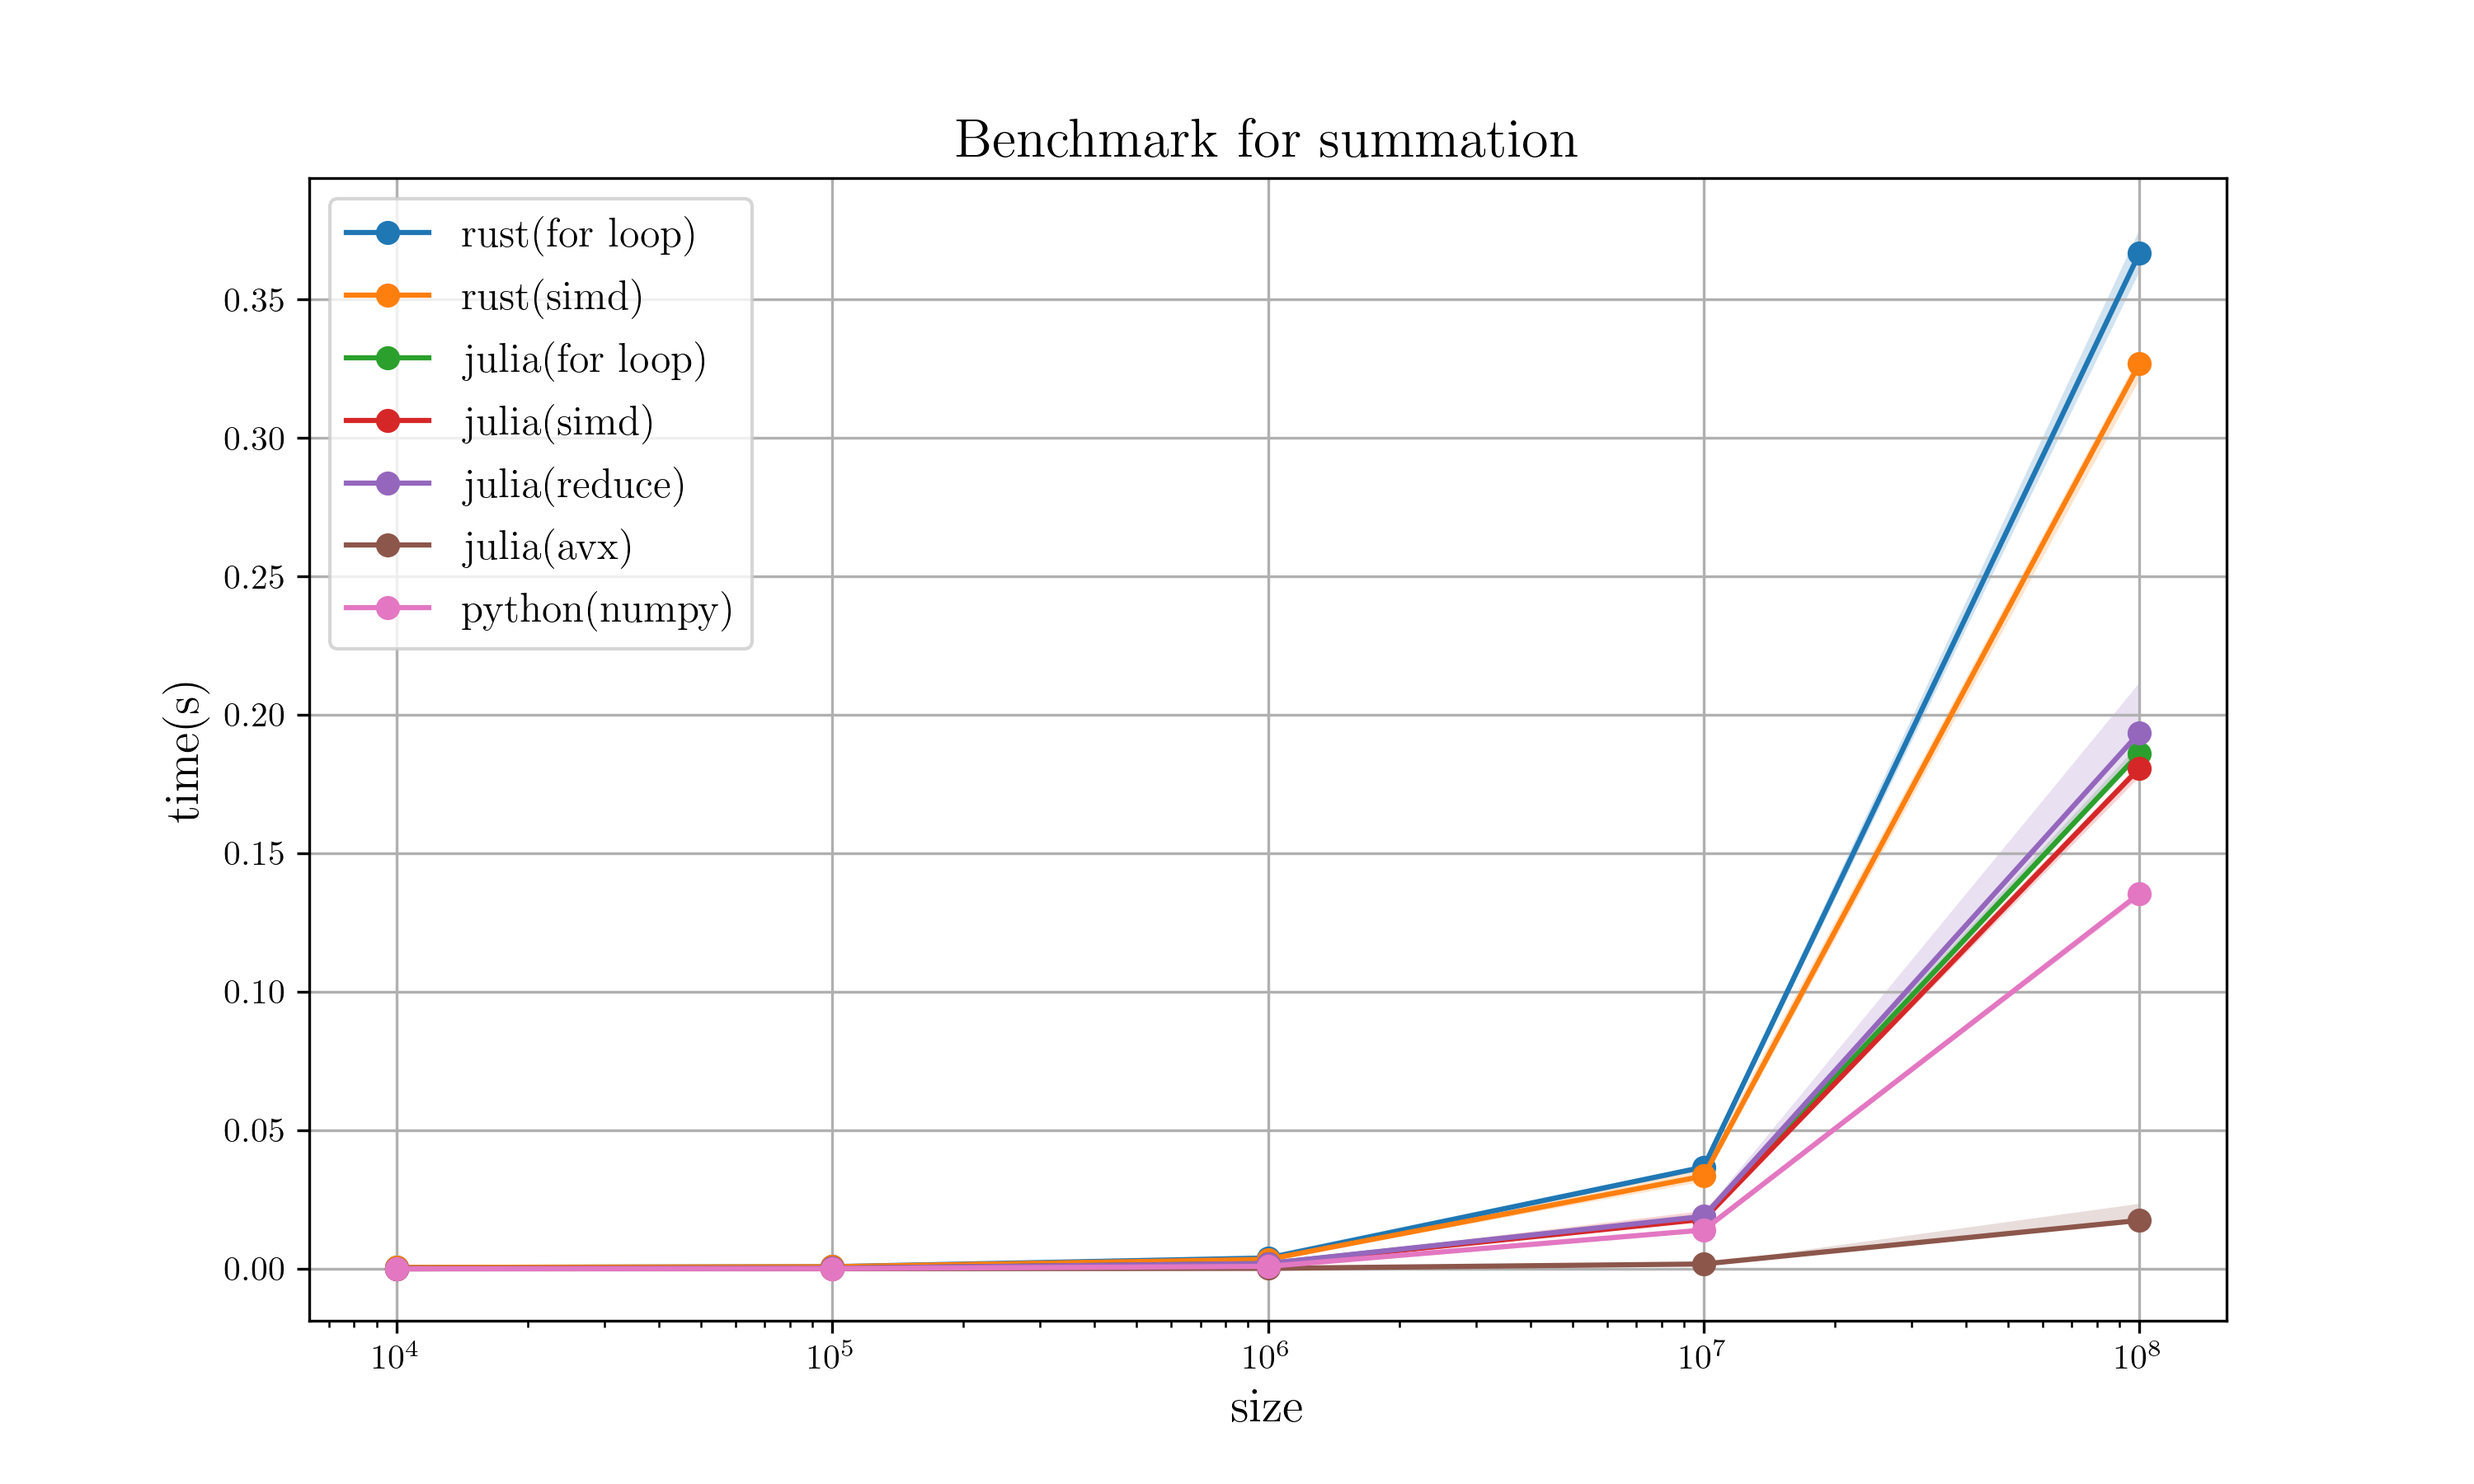
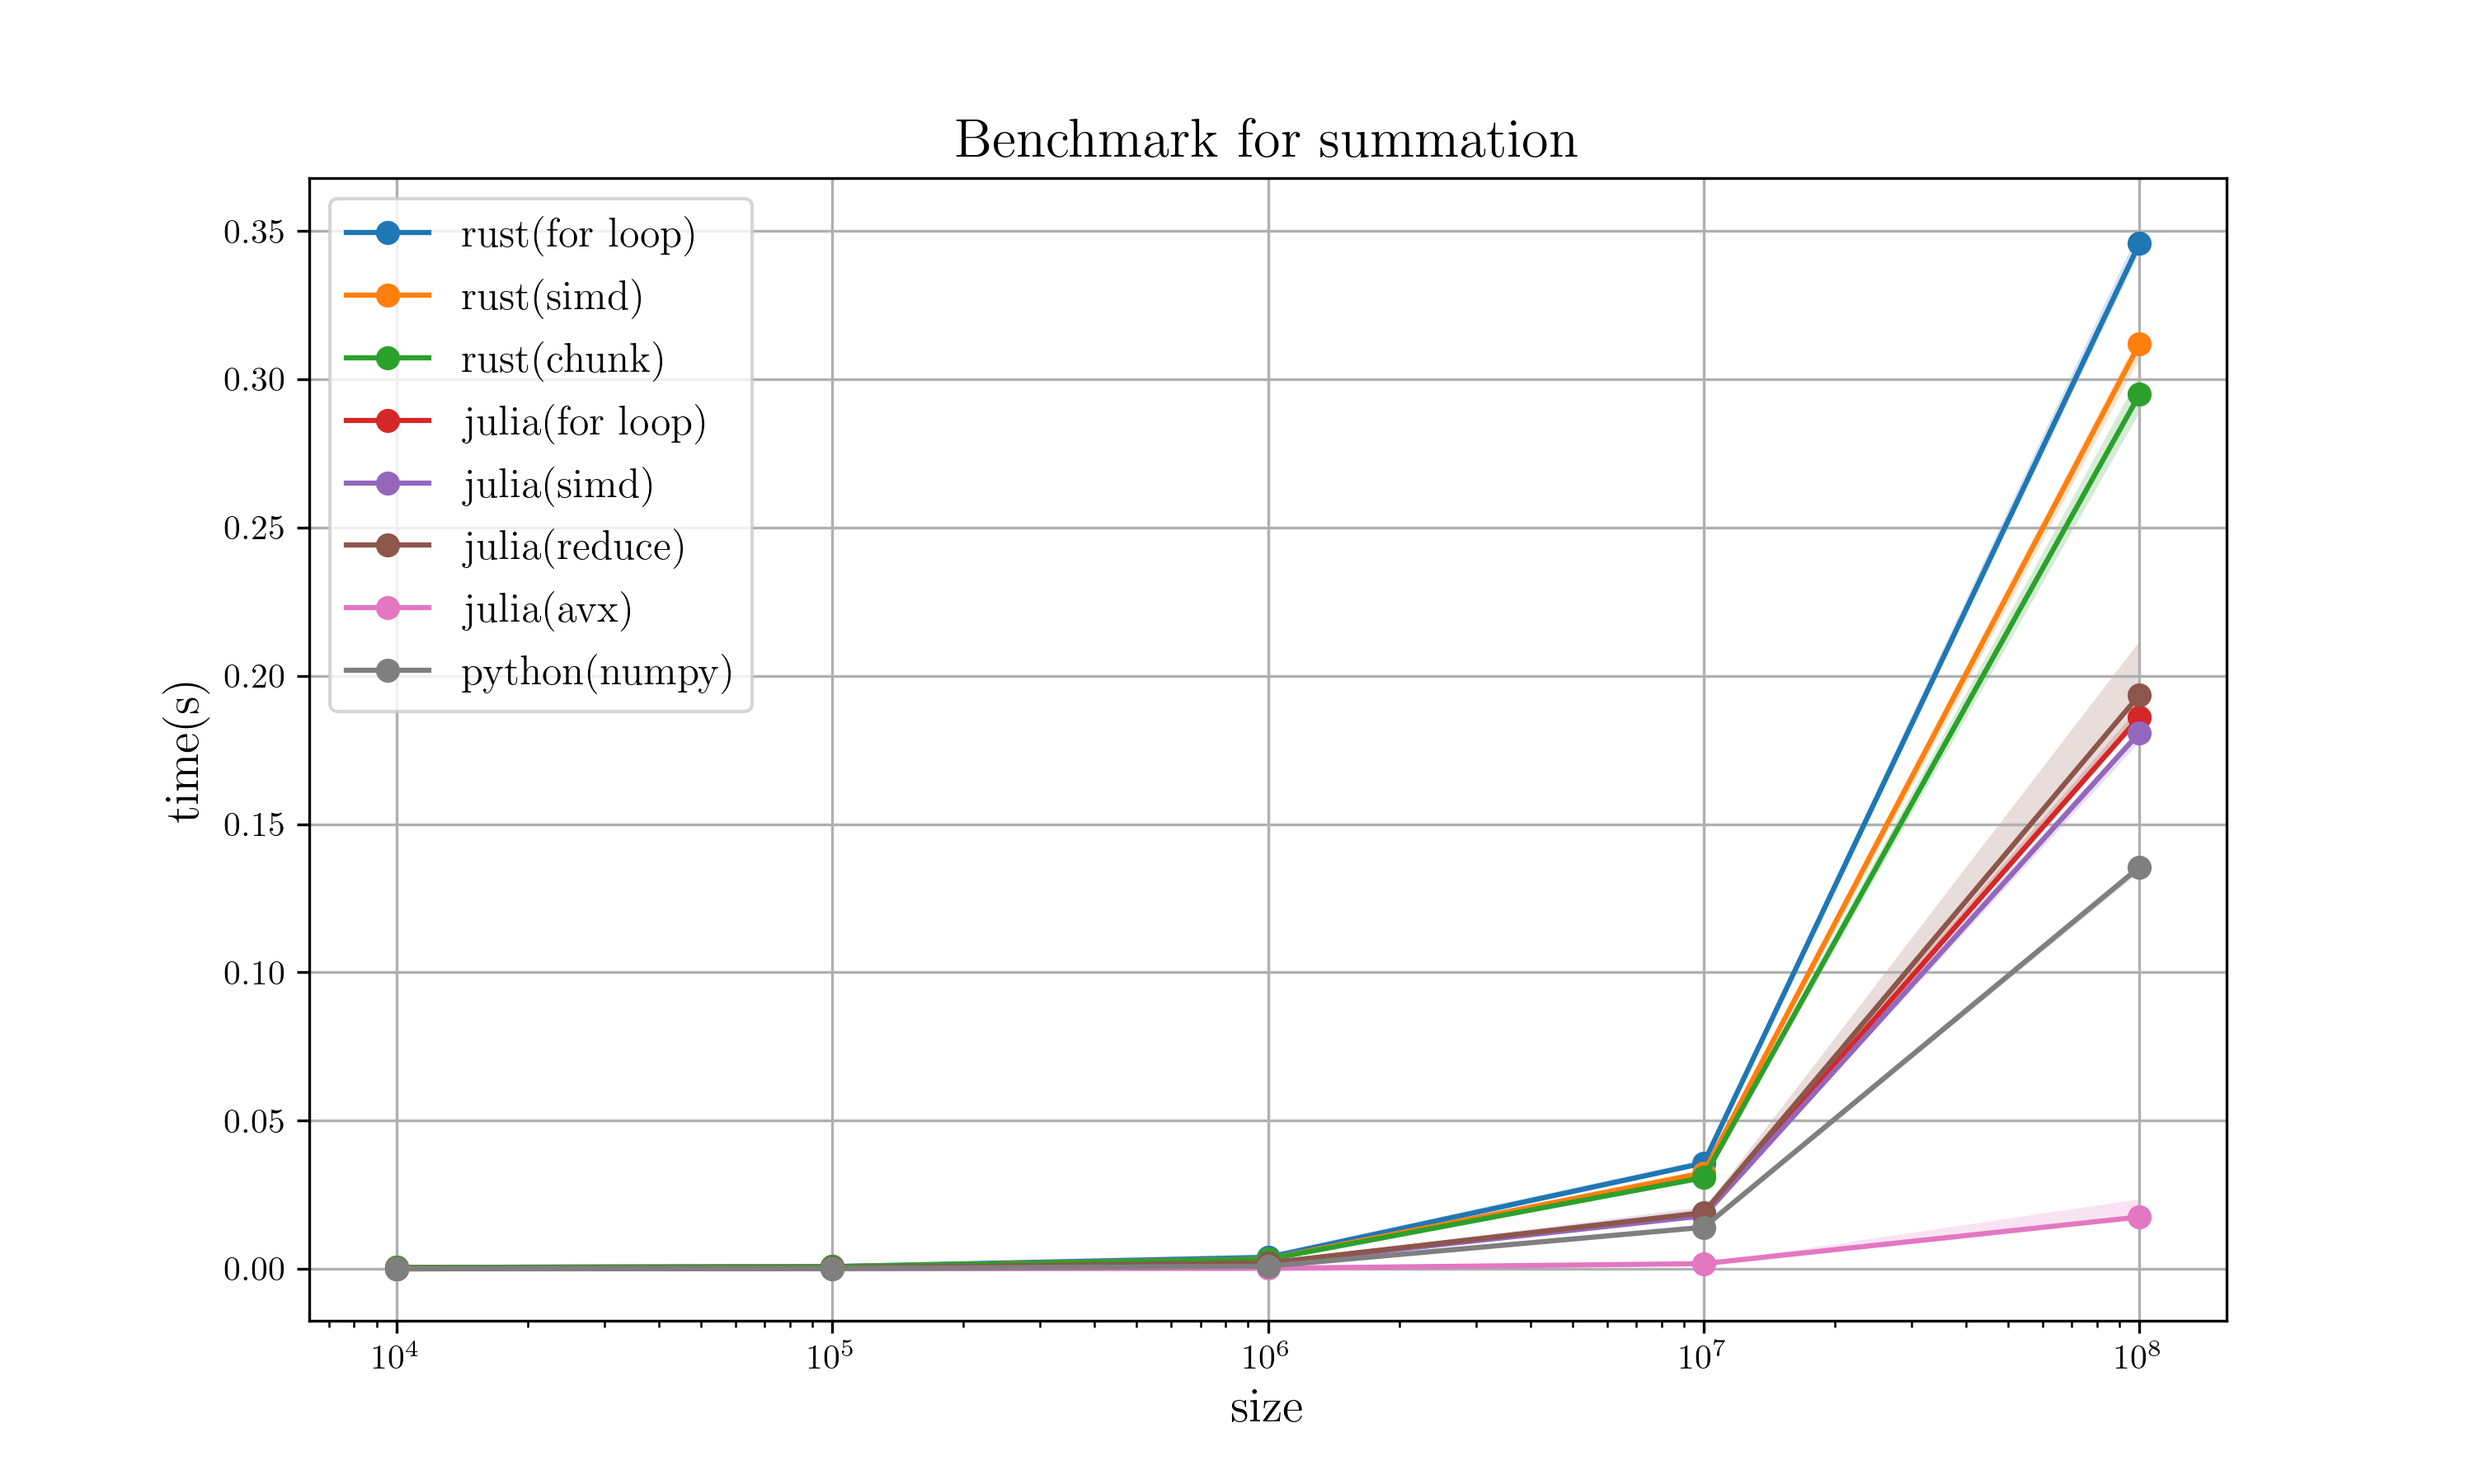
RUst chunk

diff --git a/Basic/sum/plot.py b/Basic/sum/plot.py
@@ -12,6 +12,7 @@ dp = pd.read_csv("bench_python.csv")
 # Filtering
 rust_for = df[df["command"].str.contains("rust_for")]
 rust_simd = df[df["command"].str.contains("rust_simd")]
+rust_chunk = df[df["command"].str.contains("rust_chunk")]
 #eigen3 = df[df["command"].str.contains("default")]
 #eigen3_blas = df[df["command"].str.contains("blas")]
 #numpy = df[df["command"].str.contains("numpy")]
@@ -59,6 +60,9 @@ plt.fill_between(domain, rust_for["min"], rust_for["max"], alpha=0.2)
 plt.loglog(domain, rust_simd["mean"], marker='o', label=r'rust(simd)')
 plt.fill_between(domain, rust_simd["min"], rust_simd["max"], alpha=0.2)
 
+plt.loglog(domain, rust_chunk["mean"], marker='o', label=r'rust(chunk)')
+plt.fill_between(domain, rust_chunk["min"], rust_chunk["max"], alpha=0.2)
+
 
 
 # Other options
@@ -78,6 +82,9 @@ plt.fill_between(domain, rust_for["min"], rust_for["max"], alpha=0.2)
 
 plt.semilogx(domain, rust_simd["mean"], marker='o', label=r'rust(simd)')
 plt.fill_between(domain, rust_simd["min"], rust_simd["max"], alpha=0.2)
+
+plt.semilogx(domain, rust_chunk["mean"], marker='o', label=r'rust(chunk)')
+plt.fill_between(domain, rust_chunk["min"], rust_chunk["max"], alpha=0.2)
 
 plt.semilogx(domain, julia_for["mean"], marker='o', label=r'julia(for loop)')
 plt.fill_between(domain, julia_for["min"], julia_for["max"], alpha=0.2)

diff --git a/Basic/sum/rust_chunk/src/main.rs b/Basic/sum/rust_chunk/src/main.rs
@@ -1,0 +1,10 @@
+use std::env;
+
+fn main() {
+    let args: Vec<String> = env::args().collect();
+    let p: u32 = args[1].parse().unwrap();
+    let end = 10i64.pow(p);
+    let x: Vec<f64> = (0i64 .. end).map(|t| t as f64).collect();
+    let s: f64 = x.chunks_exact(4).map(|t| t.iter().sum::<f64>()).sum();
+    println!("{}", s);
+}

diff --git a/Basic/sum/bench.md b/Basic/sum/bench.md
@@ -1,12 +1,17 @@
 | Command | Mean [ms] | Min [ms] | Max [ms] | Relative |
 |:---|---:|---:|---:|---:|
-| `./rust_for/target/release/rust_for 4` | 0.5 ± 0.1 | 0.3 | 1.4 | 1.00 |
-| `./rust_simd/target/release/rust_simd 4` | 0.5 ± 0.1 | 0.3 | 1.3 | 1.03 ± 0.24 |
-| `./rust_for/target/release/rust_for 5` | 0.8 ± 0.1 | 0.6 | 1.3 | 1.64 ± 0.30 |
-| `./rust_simd/target/release/rust_simd 5` | 0.8 ± 0.1 | 0.5 | 1.3 | 1.56 ± 0.32 |
-| `./rust_for/target/release/rust_for 6` | 3.9 ± 0.2 | 3.5 | 5.0 | 8.10 ± 1.30 |
-| `./rust_simd/target/release/rust_simd 6` | 3.4 ± 0.2 | 3.0 | 4.7 | 7.12 ± 1.17 |
-| `./rust_for/target/release/rust_for 7` | 36.7 ± 0.5 | 35.7 | 37.6 | 76.50 ± 11.70 |
-| `./rust_simd/target/release/rust_simd 7` | 33.5 ± 1.0 | 31.5 | 37.0 | 69.76 ± 10.83 |
-| `./rust_for/target/release/rust_for 8` | 366.7 ± 4.1 | 359.8 | 375.0 | 763.77 ± 116.78 |
-| `./rust_simd/target/release/rust_simd 8` | 326.7 ± 2.4 | 321.0 | 329.6 | 680.55 ± 103.90 |
+| `./rust_for/target/release/rust_for 4` | 0.5 ± 0.1 | 0.3 | 0.9 | 1.00 |
+| `./rust_simd/target/release/rust_simd 4` | 0.5 ± 0.1 | 0.3 | 0.8 | 1.01 ± 0.22 |
+| `./rust_chunk/target/release/rust_chunk 4` | 0.5 ± 0.1 | 0.3 | 0.9 | 1.01 ± 0.23 |
+| `./rust_for/target/release/rust_for 5` | 0.8 ± 0.1 | 0.6 | 1.3 | 1.65 ± 0.33 |
+| `./rust_simd/target/release/rust_simd 5` | 0.7 ± 0.1 | 0.5 | 1.2 | 1.54 ± 0.33 |
+| `./rust_chunk/target/release/rust_chunk 5` | 0.7 ± 0.1 | 0.5 | 1.0 | 1.58 ± 0.32 |
+| `./rust_for/target/release/rust_for 6` | 3.8 ± 0.2 | 3.5 | 5.0 | 8.38 ± 1.46 |
+| `./rust_simd/target/release/rust_simd 6` | 3.3 ± 0.2 | 2.9 | 3.9 | 7.22 ± 1.27 |
+| `./rust_chunk/target/release/rust_chunk 6` | 3.2 ± 0.2 | 2.9 | 4.5 | 6.99 ± 1.24 |
+| `./rust_for/target/release/rust_for 7` | 35.7 ± 0.4 | 35.0 | 36.8 | 77.74 ± 13.06 |
+| `./rust_simd/target/release/rust_simd 7` | 32.4 ± 0.8 | 30.7 | 33.5 | 70.54 ± 11.95 |
+| `./rust_chunk/target/release/rust_chunk 7` | 30.8 ± 0.4 | 29.8 | 31.6 | 67.09 ± 11.30 |
+| `./rust_for/target/release/rust_for 8` | 345.8 ± 2.6 | 342.7 | 350.3 | 754.00 ± 126.60 |
+| `./rust_simd/target/release/rust_simd 8` | 311.9 ± 2.8 | 306.7 | 314.8 | 680.11 ± 114.24 |
+| `./rust_chunk/target/release/rust_chunk 8` | 294.9 ± 3.7 | 288.7 | 301.2 | 642.97 ± 108.15 |
